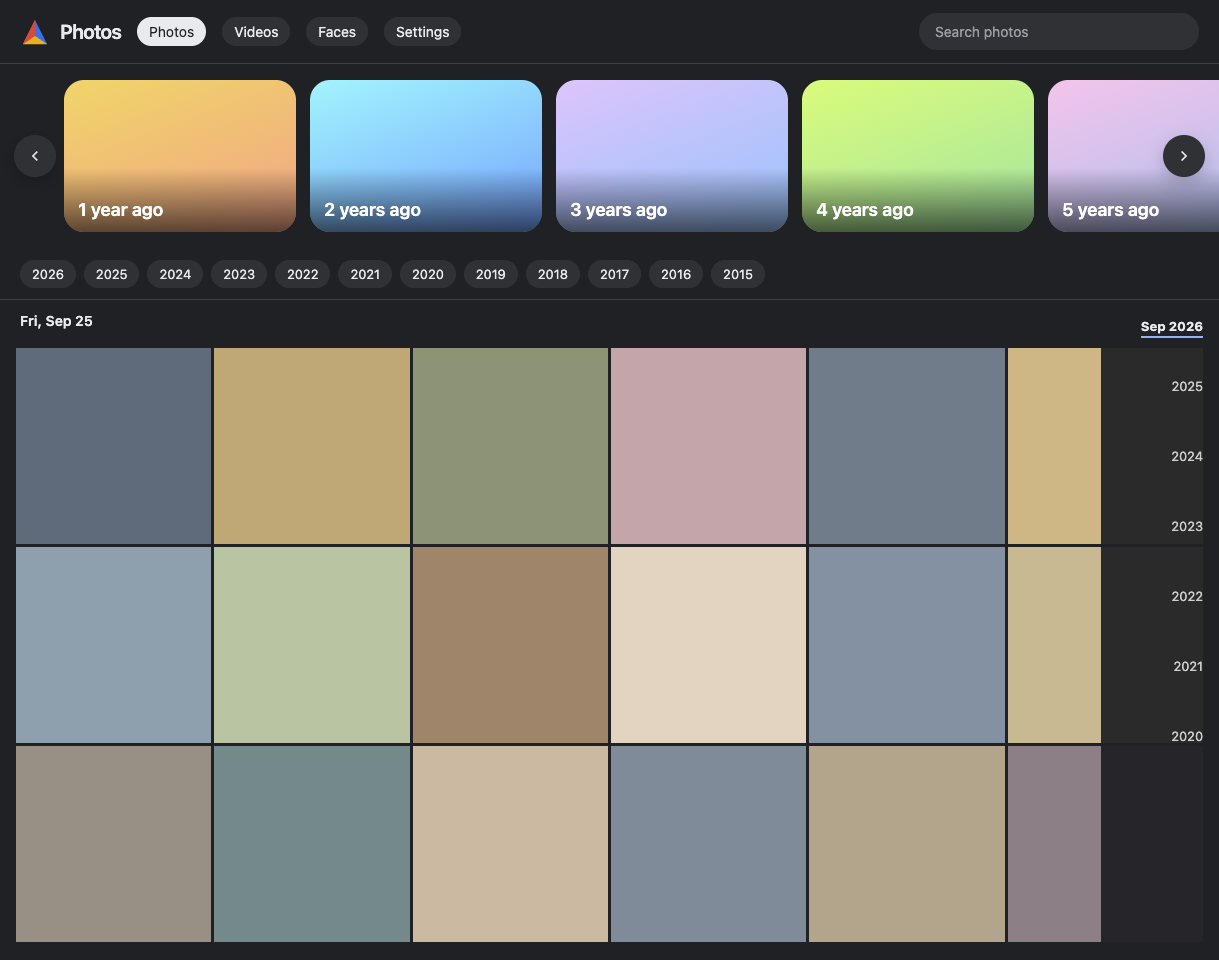
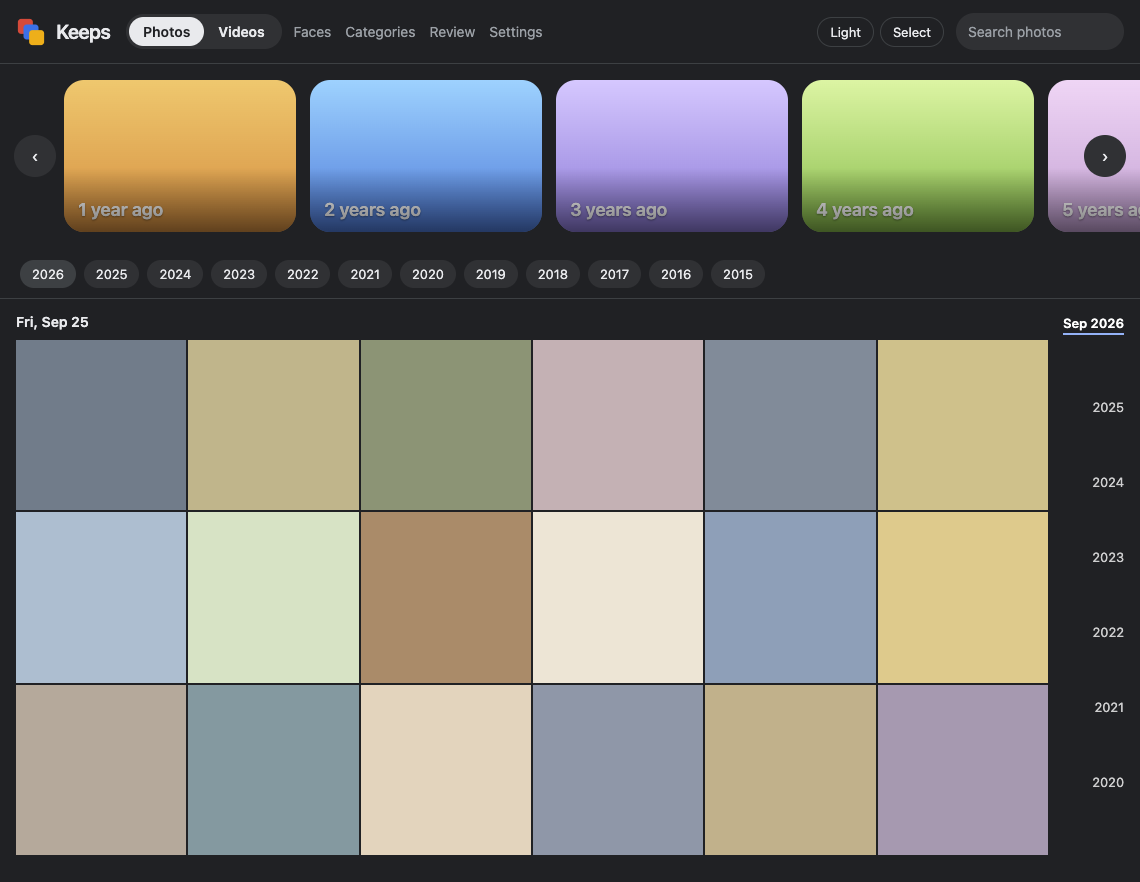
Show Keeps in the README pictures instead of the old Photos mark.

diff --git a/README.md b/README.md
@@ -8,15 +8,15 @@ These pictures use colored placeholders. They are not photos from anyone's libra
 
 ### Home
 
-![Home page with placeholder memories, a day grid, and the date scrubber](docs/images/home.png)
+![Home page of Keeps, with placeholder memories, a day grid, and the date scrubber](docs/images/home.png)
 
 ### Faces
 
-![Faces page with placeholder people](docs/images/faces.png)
+![Faces page of Keeps, with placeholder people](docs/images/faces.png)
 
 ### Settings
 
-![Settings page with sample sync counts](docs/images/settings.png)
+![Settings page of Keeps, with sample models and sync counts](docs/images/settings.png)
 
 ## What stays off GitHub
 
@@ -63,7 +63,7 @@ python3 gallery/server.py
 
 Open http://127.0.0.1:8765. It reads the folders once, when it starts. A file added after that stays invisible until you start the server again.
 
-Photos, Videos, and Faces share one dark theme. The theme choice is saved in the browser.
+Keeps uses one dark theme. The choice is saved in the browser.
 
 Search takes a sentence, and it also has filters you can edit. The Search section below has the query shapes.
 
